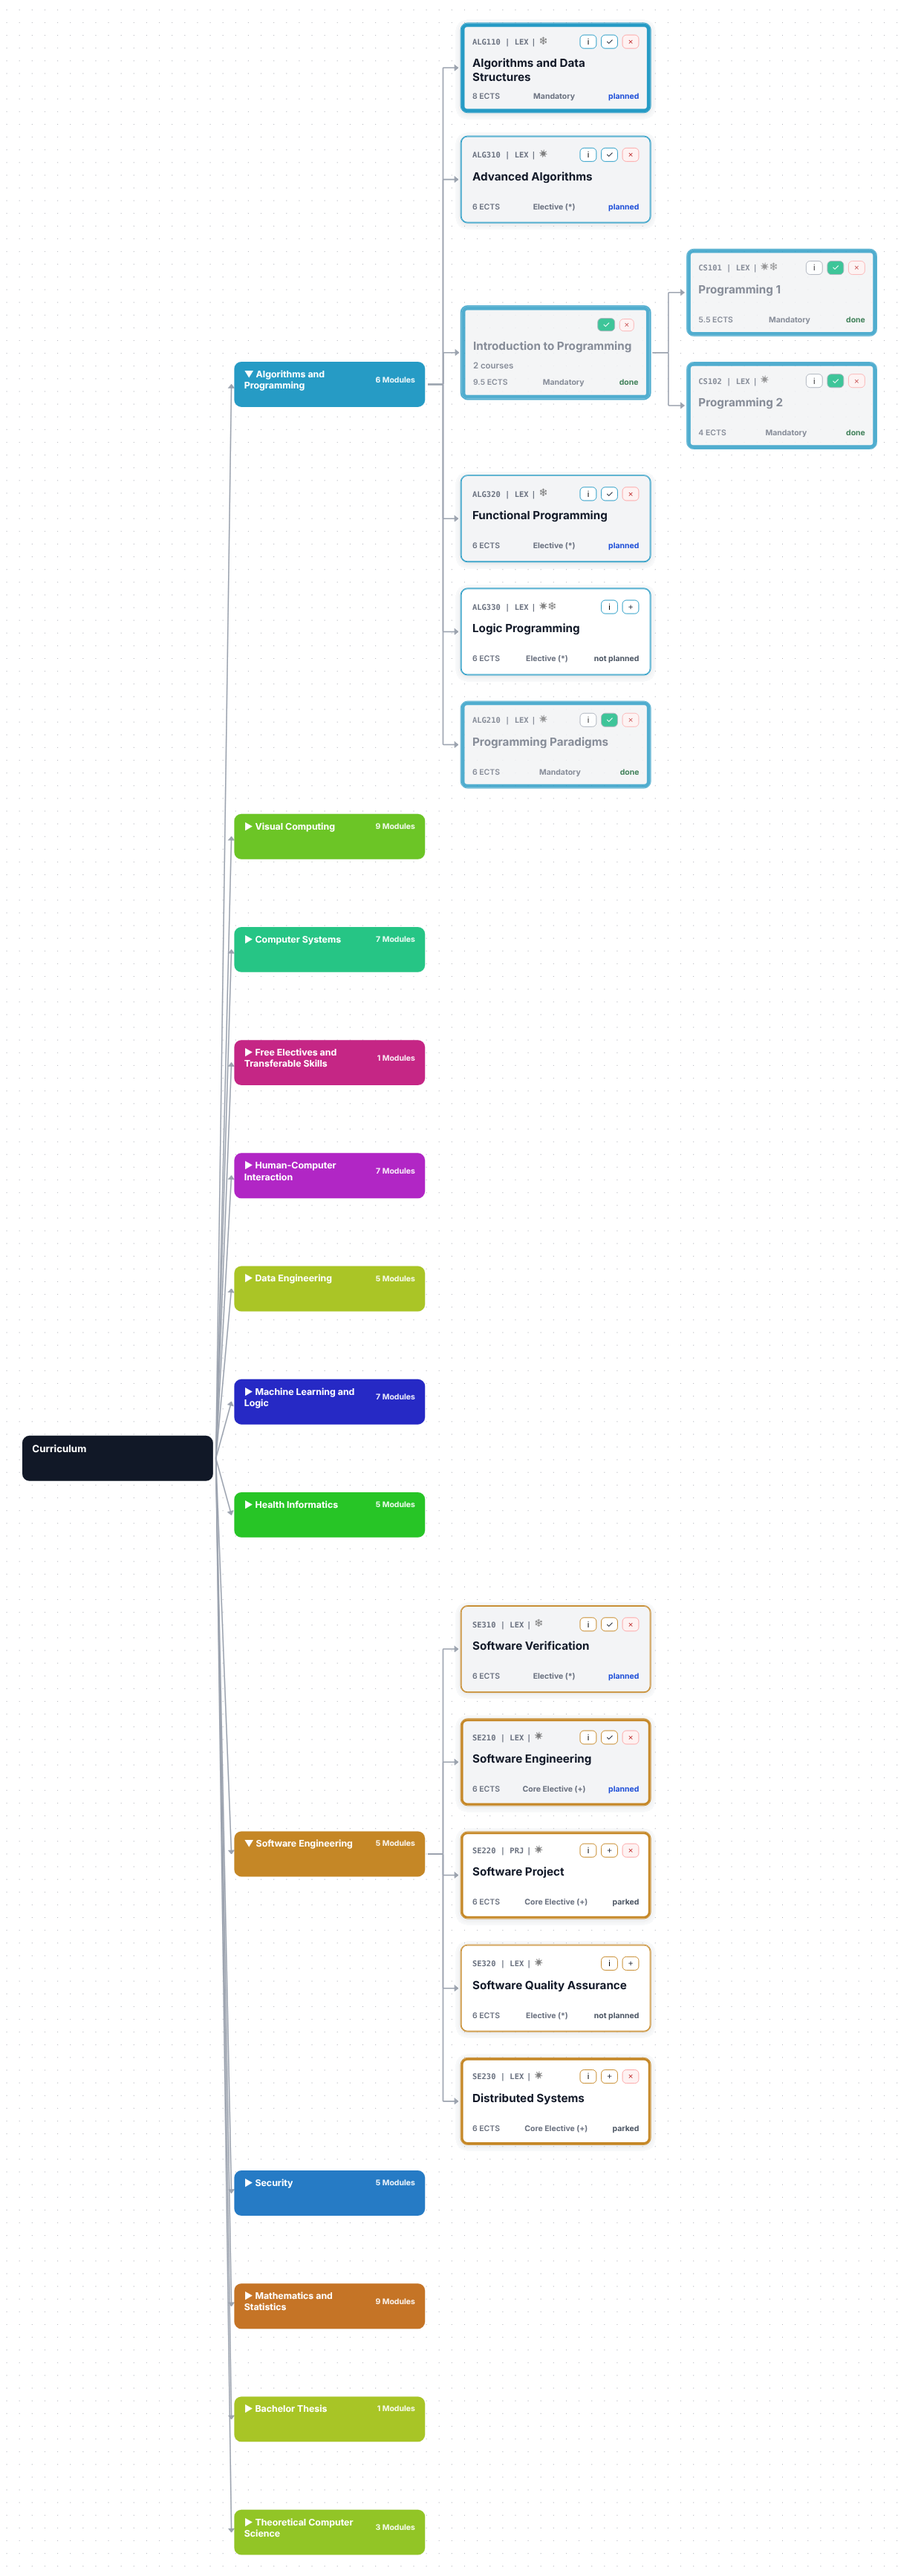
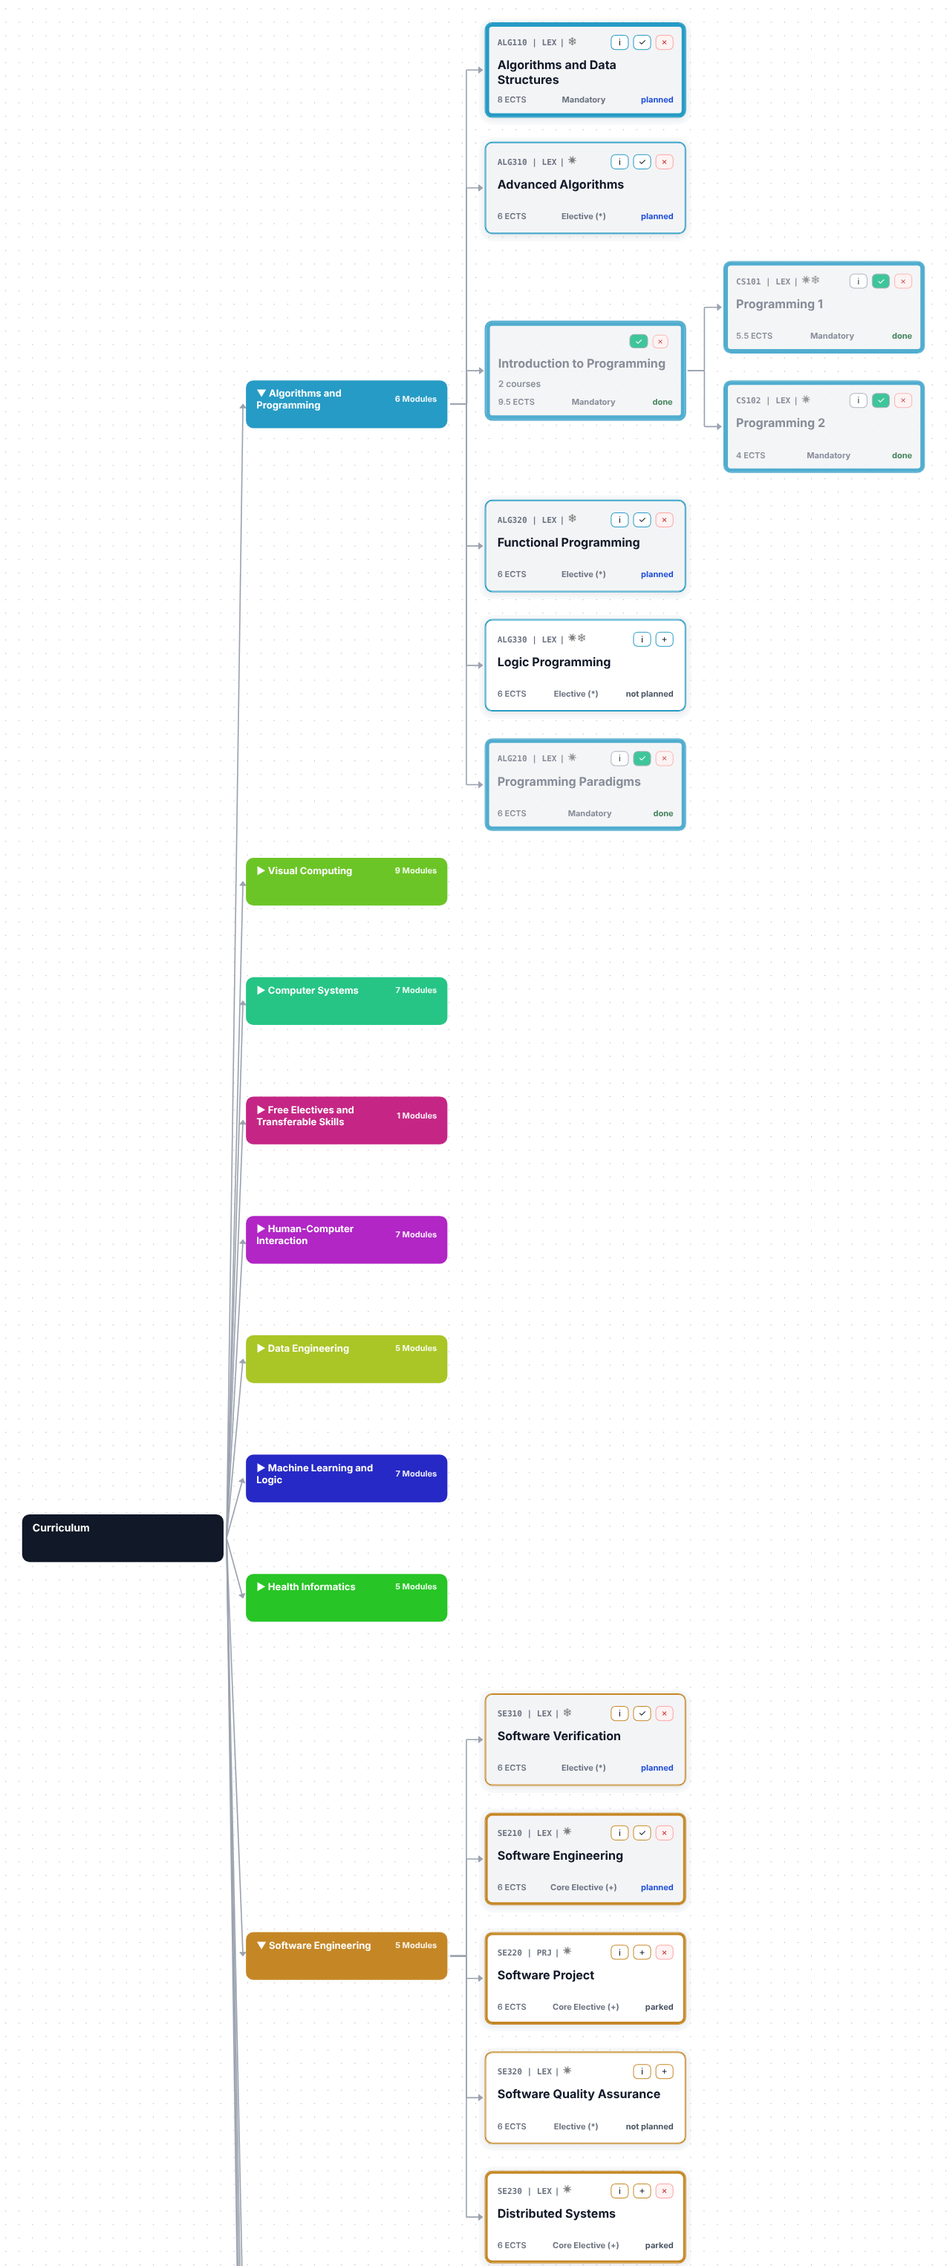
Figure B: cut the graph at the Dashboard's height
Claude-Session: https://claude.ai/code/session_019VCq3ESBZwQNJ8zcqfusNr

Changed region(s): [[0.0, 0.0, 0.9793, 1.0]]

diff --git a/paper-figures/README.md b/paper-figures/README.md
@@ -30,19 +30,24 @@ All PNG, white background, rendered by Chromium (Playwright) with
 | Image | Pixels (w × h) |
 |---|---|
 | `table_view.png` | 3429 × 1815 |
-| `shell_graph_view_crop.png` | 3609 × 3468 |
+| `shell_graph_view_crop.png` | 3675 × 3099 |
 | `panel_filters.png` | 999 × 2403 |
-| `panel_graph.png` | 1209 × 3468 |
+| `panel_graph.png` | 1275 × 3051 |
 | `panel_dashboard.png` | 1329 × 3099 |
 
 Figure A: viewport 1600 × 1000 CSS px, sidebar hidden, board at React Flow's
 minimum zoom (0.5), cropped to the Parking Stage and lanes 1–5 down to the
 lowest card (the plan has seven semesters; 6–7 are left out of the crop so
-the cards stay legible at column width). Figure B: viewport 1600 × 1250 CSS px (taller so the Dashboard
+the cards stay legible at column width). Figure B: viewport 1600 × 1320 CSS px (taller so the Dashboard
 fits without scrolling), Graph View with "Algorithms and Programming" and
 "Software Engineering" expanded (plus the two-course module "Introduction to
 Programming", so all four levels show), fitted to view. The three panels are
-cropped to their own content and composed top-aligned with a 36 px (12 CSS px)
+cropped to their own content and composed top-aligned. The tree crop is
+cut at the Dashboard's height so both end in line; the four collapsed subjects
+at the bottom of the tree (Security, Mathematics and Statistics, Bachelor
+Thesis, Theoretical Computer Science) fall below the cut. The subject filter
+was not used for this because any active filter makes the application expand
+every matching subject. The panels are composed top-aligned with a 36 px (12 CSS px)
 gap. The Dashboard crop ends below *Warnings*. Scrollbars and the text caret
 are hidden by an injected stylesheet. The application's page grey `#f9fafb`
 is mapped to white in all crops. The pointer is parked outside the crops, so
